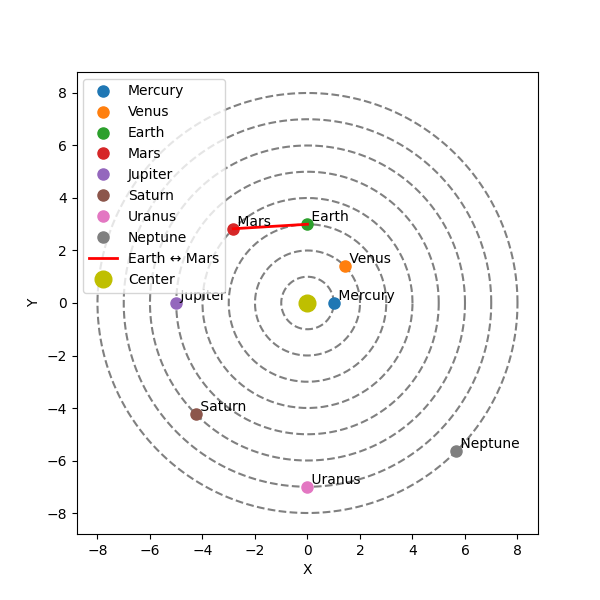
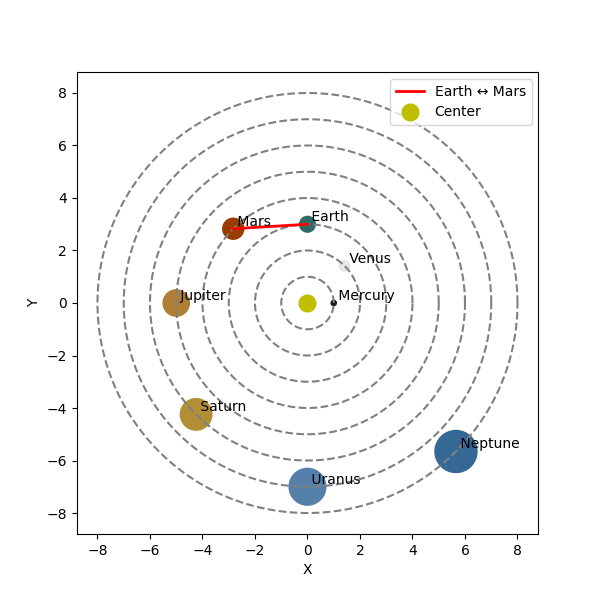
GATA POZA FINALA FINALLLYY

diff --git a/soft_challange/soft_challange/utils.py b/soft_challange/soft_challange/utils.py
@@ -1,7 +1,9 @@
 from math import sqrt, cos, sin
 import matplotlib
 import matplotlib.pyplot as plt
-#backendu gen sa poata sa mearga inafara de main thread
+from numpy import ndarray
+
+# backendu gen sa poata sa mearga inafara de main thread
 matplotlib.use('agg')
 import numpy as np
 
@@ -197,47 +199,43 @@ def get_stupid_travel_data(planets: [dict], from_planet: str,
 """
 
 
-def plot_planets(angles: [int], planet_names: [str], orbit_radii: float | list[float], planet1_name: str, planet2_name: str,
+def plot_planets(angles:list[float], planets_radii:list[float], planet_colors: list[str] | list[float], orbit_radii: int | float | list[float] | ndarray, planet_names: list[str], planet1_name:str,
+                 planet2_name :str,
                  saveto_filename: str):
-    """
-    :param angles:
-    :param planet_names:
-    :param orbit_radii:  either one constant step for all of them (the value of which will be added to every radii) or a list of radii for each planet
-    :param planet1_name: the planet from which to draw a line
-    :param planet2_name: the planet to whicih to draw that line
-    :param saveto_filename: the filepoth to which to save the plot
-    """
-
     fig, ax = plt.subplots(figsize=(6, 6))
     ax.set_aspect('equal')
 
     planet_positions = {}
 
-    for i, (angle, name) in enumerate(zip(angles, planet_names)):
-
-        if type(orbit_radii) == float or type(orbit_radii) == int:
-            radius = (i + 1) * orbit_radii
+    for i, (angle, radius, color, name) in enumerate(zip(angles, planets_radii, planet_colors, planet_names)):
+        # Each planet's orbit radius
+        if type(orbit_radii) == int or type(orbit_radii) == float:
+            orbit_radius = (i + 1) * orbit_radii
+        elif type(orbit_radii) == list or type(orbit_radii) == ndarray:
+            orbit_radius = orbit_radii[i]
         else:
-            radius = orbit_radii[i]
+            raise ValueError(
+                "Invalid type for orbit_radii: {} ; but expected int, float or list[float]".format(type(orbit_radii)))
 
         # Draw the orbit as a circle
         theta = np.linspace(0, 2 * np.pi, 200)
-        x_orbit = radius * np.cos(theta)
-        y_orbit = radius * np.sin(theta)
+        x_orbit = orbit_radius * np.cos(theta)
+        y_orbit = orbit_radius * np.sin(theta)
         ax.plot(x_orbit, y_orbit, color='gray', linestyle='--')
 
         # Convert the angle from degrees to radians
         angle_rad = np.deg2rad(angle)
 
         # Compute the planet's position on the orbit
-        x_planet = radius * np.cos(angle_rad)
-        y_planet = radius * np.sin(angle_rad)
+        x_planet = orbit_radius * np.cos(angle_rad)
+        y_planet = orbit_radius * np.sin(angle_rad)
 
         # Store the position
         planet_positions[name] = (x_planet, y_planet)
 
-        # Plot the planet
-        ax.plot(x_planet, y_planet, 'o', markersize=8, label=name)
+        # Plot the planet with the specified radius
+        planet_circle = plt.Circle((x_planet, y_planet), radius, color=color, fill=True)
+        ax.add_patch(planet_circle)
         ax.text(x_planet, y_planet, f' {name}', fontsize=10, verticalalignment='bottom')
 
     # Draw a line between the selected planets
@@ -390,13 +388,23 @@ def get_medium_travel_data(planets: [dict], from_planet: str, to_planet: str) ->
     travel_results['optimal_transfer_window'] = optimal_transfer_window_day
     travel_results['angular_positions'] = get_angular_positions(planets, t0 + optimal_transfer_window_day)
 
-    planet_angles = [angle[0] for angle in travel_results['angular_positions'].values()]
-    planet_names = [planet for planet in travel_results['angular_positions']]
-    #TODO ai putea sa faci su cu orbitele alea reale da dupa nu se pream ai vede bine
-    plot_planets(planet_angles, planet_names, 1, from_planet, to_planet, 'static/planets.png')
-    #this time accurately with the plante radii
-    planet_radii = [planet['diameter'] * (10 ** 3) / 2 for planet in planets]
-    plot_planets(planet_angles, planet_names, planet_radii, from_planet, to_planet, 'static/planets-accurate.png')
+    planets_angles = [angle[0] for angle in travel_results['angular_positions'].values()]
+    planets_names = [planet for planet in travel_results['angular_positions']]
+    planets_colors = ['#1a1a1a', '#e6e6e6', '#2f6a69', '#993d00', '#b07f35', '#b08f36', '#5580aa', '#366896', '#fff1d5']
+    max_planet_diameter = max([planet['diameter'] for planet in planets])
+    planets_radii_proportional = [planet['diameter'] / max_planet_diameter for planet in planets]
+
+    # TODO ai putea sa faci su cu orbitele alea reale da dupa nu se pream ai vede bine
+    plot_planets(planets_angles, planets_radii_proportional, planets_colors, 1, planets_names,
+                 from_planet, to_planet, 'static/planets.png')
+    # this time accurately with the plante radii
+    largest_orbit_radius = max([planet['orbital_radius'] for planet in planets])
+    planets_proportional_orbit_radii = [planet['orbital_radius'] / largest_orbit_radius for planet in planets]
+    planets_proportional_orbit_radii = np.array(planets_proportional_orbit_radii)
+
+
+    plot_planets(planets_angles, planets_radii_proportional, planets_colors, planets_proportional_orbit_radii* 19, planets_names,
+                 from_planet, to_planet, 'static/planets-accurate.png')
 
     # I mean we need to see it as wel smr
 

diff --git a/soft_challange/note_books/test.py b/soft_challange/note_books/test.py
@@ -1,34 +1,35 @@
 import matplotlib.pyplot as plt
 import numpy as np
 
-def plot_planets(angles:[int], planet_names:[str], orbit_step:int, planet1_name:str, planet2_name:str, saveto_filename:str):
+def plot_planets(angles, planets_radii,planet_colors, planet_names, orbit_step,  planet1_name, planet2_name, saveto_filename):
     fig, ax = plt.subplots(figsize=(6, 6))
     ax.set_aspect('equal')
 
     planet_positions = {}
 
-    for i, (angle, name) in enumerate(zip(angles, planet_names)):
+    for i, (angle, radius, color ,name) in enumerate(zip(angles, planets_radii,planet_colors, planet_names)):
         # Each planet's orbit radius
-        radius = (i + 1) * orbit_step
+        orbit_radius = (i + 1) * orbit_step
 
         # Draw the orbit as a circle
         theta = np.linspace(0, 2 * np.pi, 200)
-        x_orbit = radius * np.cos(theta)
-        y_orbit = radius * np.sin(theta)
+        x_orbit = orbit_radius * np.cos(theta)
+        y_orbit = orbit_radius * np.sin(theta)
         ax.plot(x_orbit, y_orbit, color='gray', linestyle='--')
 
         # Convert the angle from degrees to radians
         angle_rad = np.deg2rad(angle)
 
         # Compute the planet's position on the orbit
-        x_planet = radius * np.cos(angle_rad)
-        y_planet = radius * np.sin(angle_rad)
+        x_planet = orbit_radius * np.cos(angle_rad)
+        y_planet = orbit_radius * np.sin(angle_rad)
 
         # Store the position
         planet_positions[name] = (x_planet, y_planet)
 
-        # Plot the planet
-        ax.plot(x_planet, y_planet, 'o', markersize=8, label=name)
+        # Plot the planet with the specified radius
+        planet_circle = plt.Circle((x_planet, y_planet), radius, color=color, fill=True)
+        ax.add_patch(planet_circle)
         ax.text(x_planet, y_planet, f' {name}', fontsize=10, verticalalignment='bottom')
 
     # Draw a line between the selected planets
@@ -45,4 +46,12 @@ def plot_planets(angles:[int], planet_names:[str], orbit_step:int, planet1_name:
     ax.legend()
     plt.savefig(saveto_filename)
 
+#give sample data
+angles = [0, 45, 90, 135, 180, 225, 270, 315]
+planets_radii = [0.1, 0.2, 0.3, 0.4, 0.5, 0.6, 0.7, 0.8]
+planet_names = ['Mercury', 'Venus', 'Earth', 'Mars', 'Jupiter', 'Saturn', 'Uranus', 'Neptune']
+planet_colors =['#1a1a1a',  '#e6e6e6', '#2f6a69', '#993d00', '#b07f35', '#b08f36', '#5580aa', '#366896']
+orbit_step = 1
 
+#call the function
+plot_planets(angles, planets_radii,planet_colors, planet_names, orbit_step,'Earth', 'Mars', 'planets.png')

diff --git a/soft_challange/note_books/simple_animation.py b/soft_challange/note_books/simple_animation.py
@@ -1,0 +1,42 @@
+from PIL import Image, ImageDraw
+import math
+
+# Constants
+WIDTH, HEIGHT = 500, 500  # Image dimensions
+CENTER = (WIDTH // 2, HEIGHT // 2)  # Center of orbits
+RADIUS_STEP = 50  # Distance between orbits
+PLANET_RADIUS = 10  # Size of planets
+
+# Angle list (each planet's current position in degrees)
+angles = [0, 359]  # Add more values here for additional planets
+
+# Create image
+image = Image.new("RGB", (WIDTH, HEIGHT), "black")
+draw = ImageDraw.Draw(image)
+
+# Draw orbits and planets
+for i, angle in enumerate(angles):
+    orbit_radius = (i + 1) * RADIUS_STEP  # Increase distance for each orbit
+    angle_rad = math.radians(angle)  # Convert to radians
+
+    # Calculate planet position
+    x = CENTER[0] + orbit_radius * math.cos(angle_rad)
+    y = CENTER[1] + orbit_radius * math.sin(angle_rad)
+
+    # Draw orbit
+    draw.ellipse(
+        (CENTER[0] - orbit_radius, CENTER[1] - orbit_radius,
+         CENTER[0] + orbit_radius, CENTER[1] + orbit_radius),
+        outline="white"
+    )
+
+    # Draw planet
+    draw.ellipse(
+        (x - PLANET_RADIUS, y - PLANET_RADIUS,
+         x + PLANET_RADIUS, y + PLANET_RADIUS),
+        fill="red"
+    )
+
+# Save and show image
+image.save("orbits.png")
+image.show()

diff --git a/soft_challange/note_books/planets_animation.py b/soft_challange/note_books/planets_animation.py
@@ -1,0 +1,27 @@
+import numpy as np
+import matplotlib.pyplot as plt
+import matplotlib.animation as animation
+
+fig, ax = plt.subplots()
+ax.set_xlim(-1.2, 1.2)
+ax.set_ylim(-1.2, 1.2)
+ax.set_aspect('equal')
+ax.set_xticks([])
+ax.set_yticks([])
+
+orbit_radius = 1.0
+circle, = ax.plot([orbit_radius], [0], 'bo', markersize=10)
+
+def init():
+    circle.set_data(orbit_radius, 0)
+    return circle
+
+def update(frame):
+    theta = 2 * np.pi * frame / 100
+    x = orbit_radius * np.cos(theta)
+    y = orbit_radius * np.sin(theta)
+    circle.set_data(x, y)
+    return circle,
+
+ani = animation.FuncAnimation(fig, update, frames=100, init_func=init, interval=50, blit=False)
+ani.save('planets_animation.gif', writer='imagemagick', fps=30)
